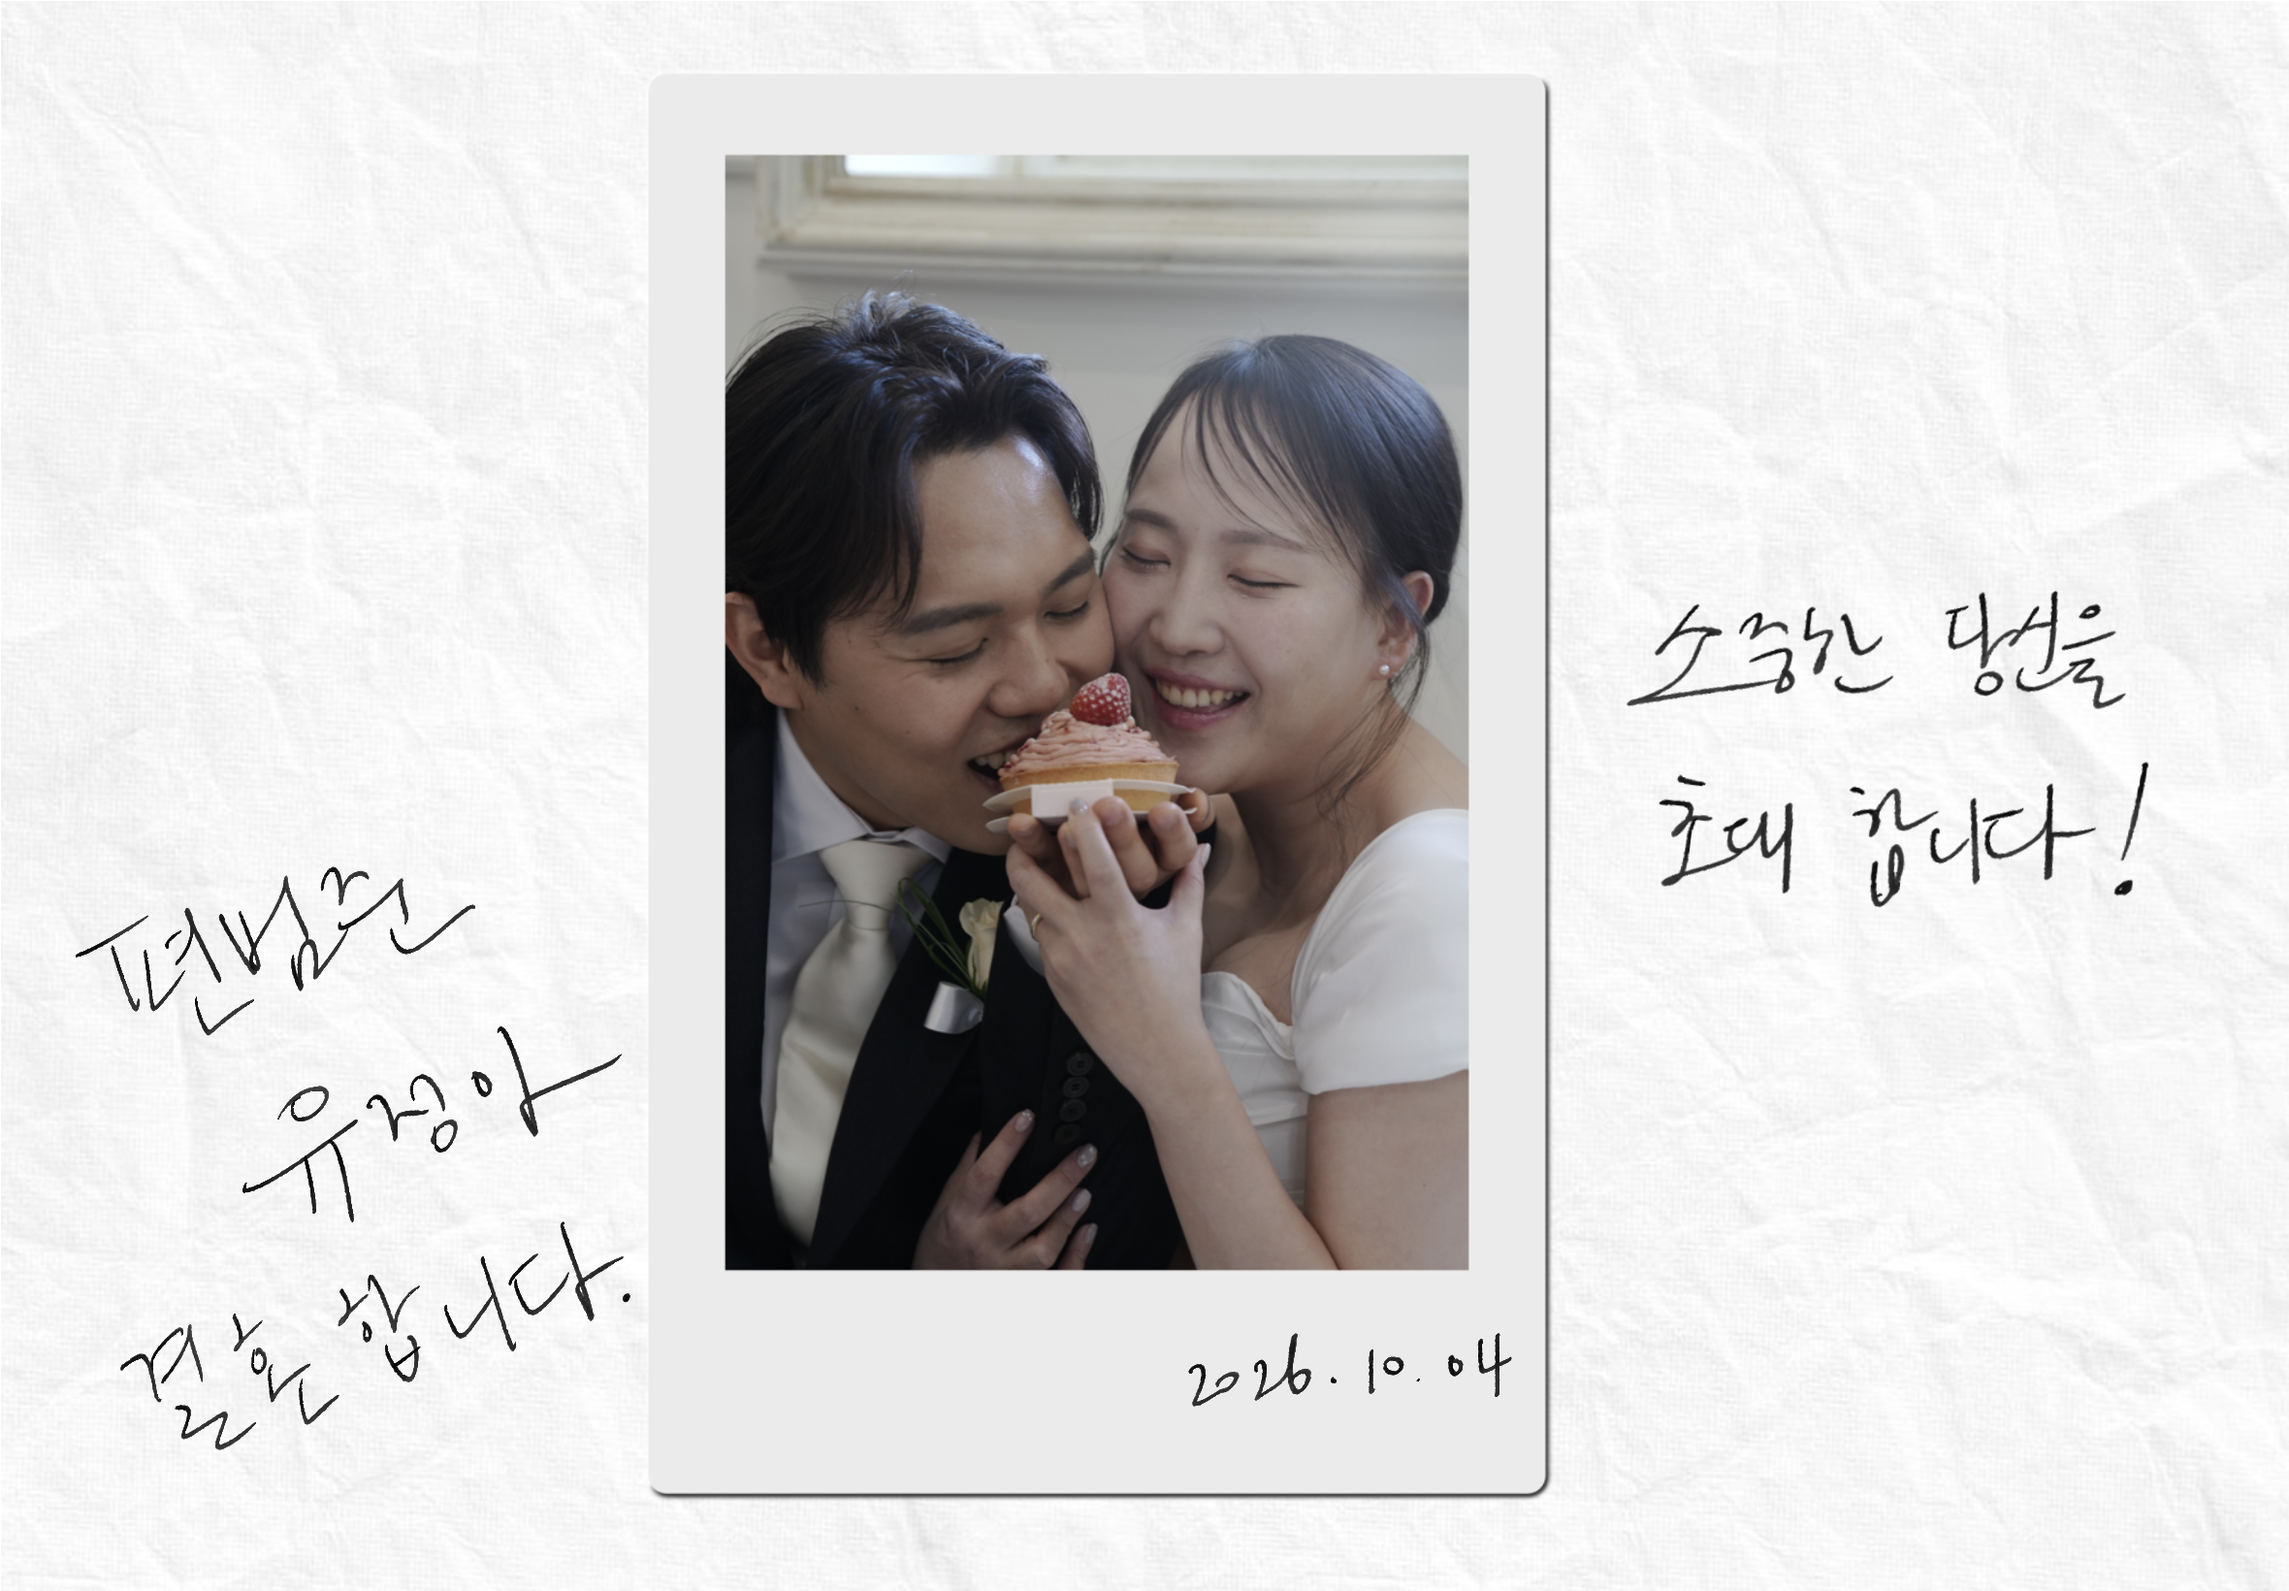
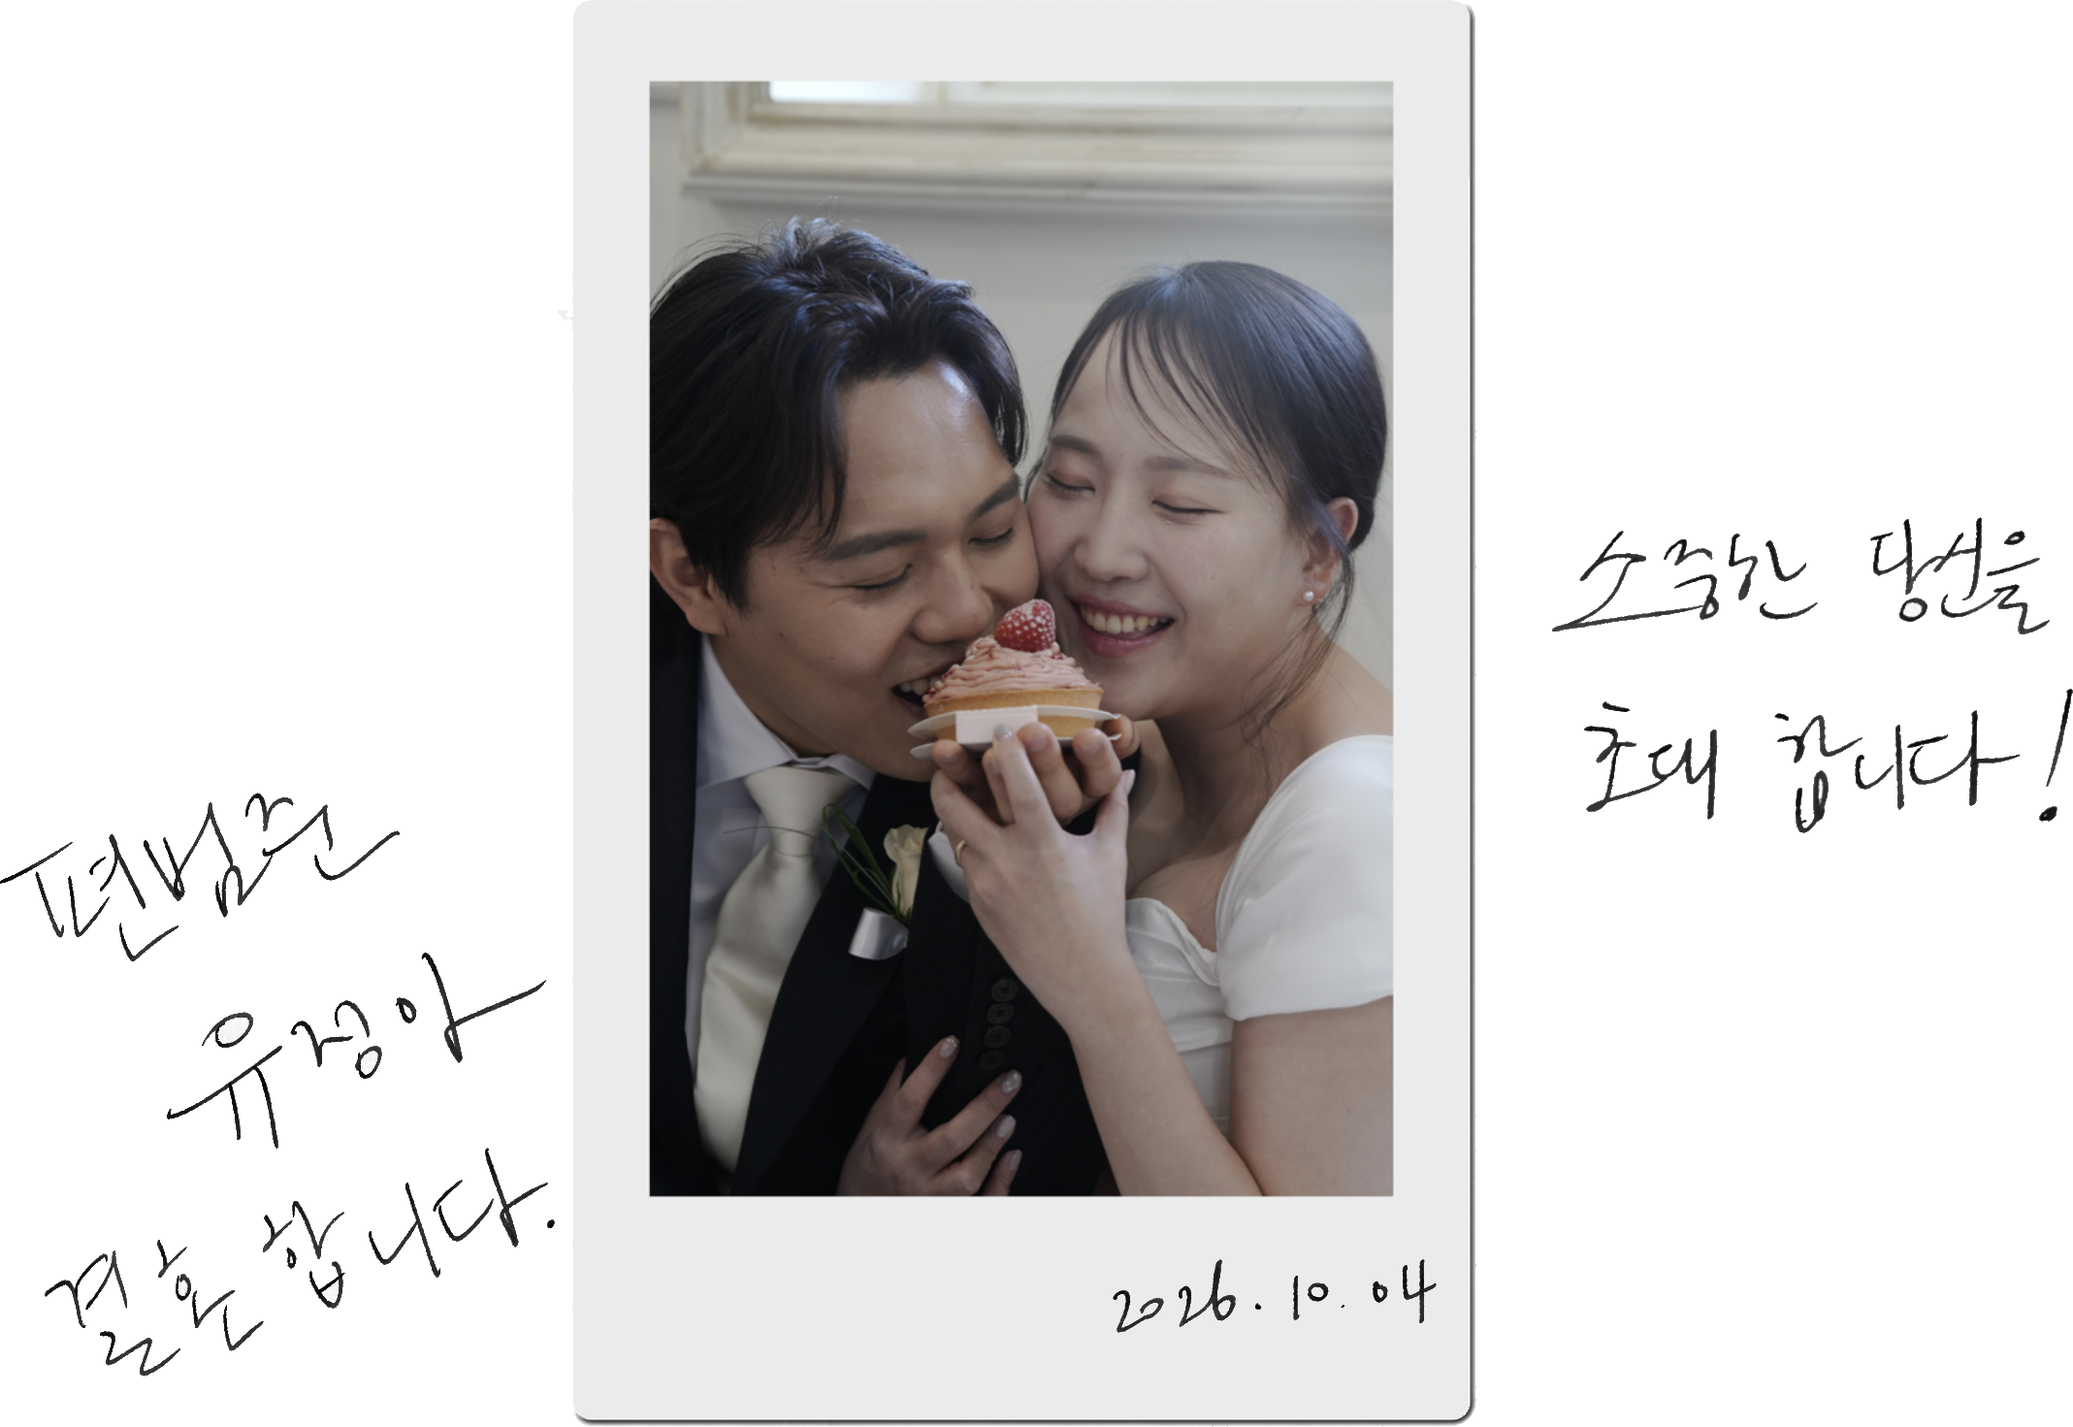
Update hero images by replacing primary.png, and adding new primary5.png and primary6.png. Modify styles in page.module.scss for improved layout and responsiveness, including adjustments to image properties for better visual presentation in the hero section.

diff --git a/src/app/page.module.scss b/src/app/page.module.scss
@@ -89,14 +89,13 @@
 }
 
 .heroRibbonImageWrap {
-  position: relative;
   width: 100%;
-  aspect-ratio: 4 / 3;
-  overflow: hidden;
-  border-radius: 0;
 }
 
 .heroRibbonImage {
+  display: block;
+  width: 100%;
+  height: auto;
   object-fit: contain;
   object-position: center;
 }
@@ -111,14 +110,14 @@
 .heroImageWrap {
   position: relative;
   width: 100%;
-  aspect-ratio: 4 / 3;
+  aspect-ratio: 2137 / 1471;
   overflow: hidden;
   border-radius: 0;
 }
 
 /* 메인 웨딩 사진: cover + 중앙, fill 레이어 뭉개짐(특히 Safari) 완화 */
 .heroMainImage {
-  object-fit: cover;
+  object-fit: contain;
   object-position: center center;
   -webkit-backface-visibility: hidden;
   backface-visibility: hidden;

diff --git a/src/app/page.tsx b/src/app/page.tsx
@@ -99,7 +99,8 @@ function HeroSection() {
           <Image
             src={invitation.ribbonImage} //ribbon
             alt=""
-            fill
+            width={1800}
+            height={1200}
             priority
             unoptimized
             sizes="(max-width: 480px) 90vw, 400px"
@@ -115,6 +116,7 @@ function HeroSection() {
             fill
             priority
             quality={88}
+            unoptimized
             sizes="(max-width: 480px) calc(100vw - 3rem), min(28rem, 100vw)"
             className={styles.heroMainImage}
           />
